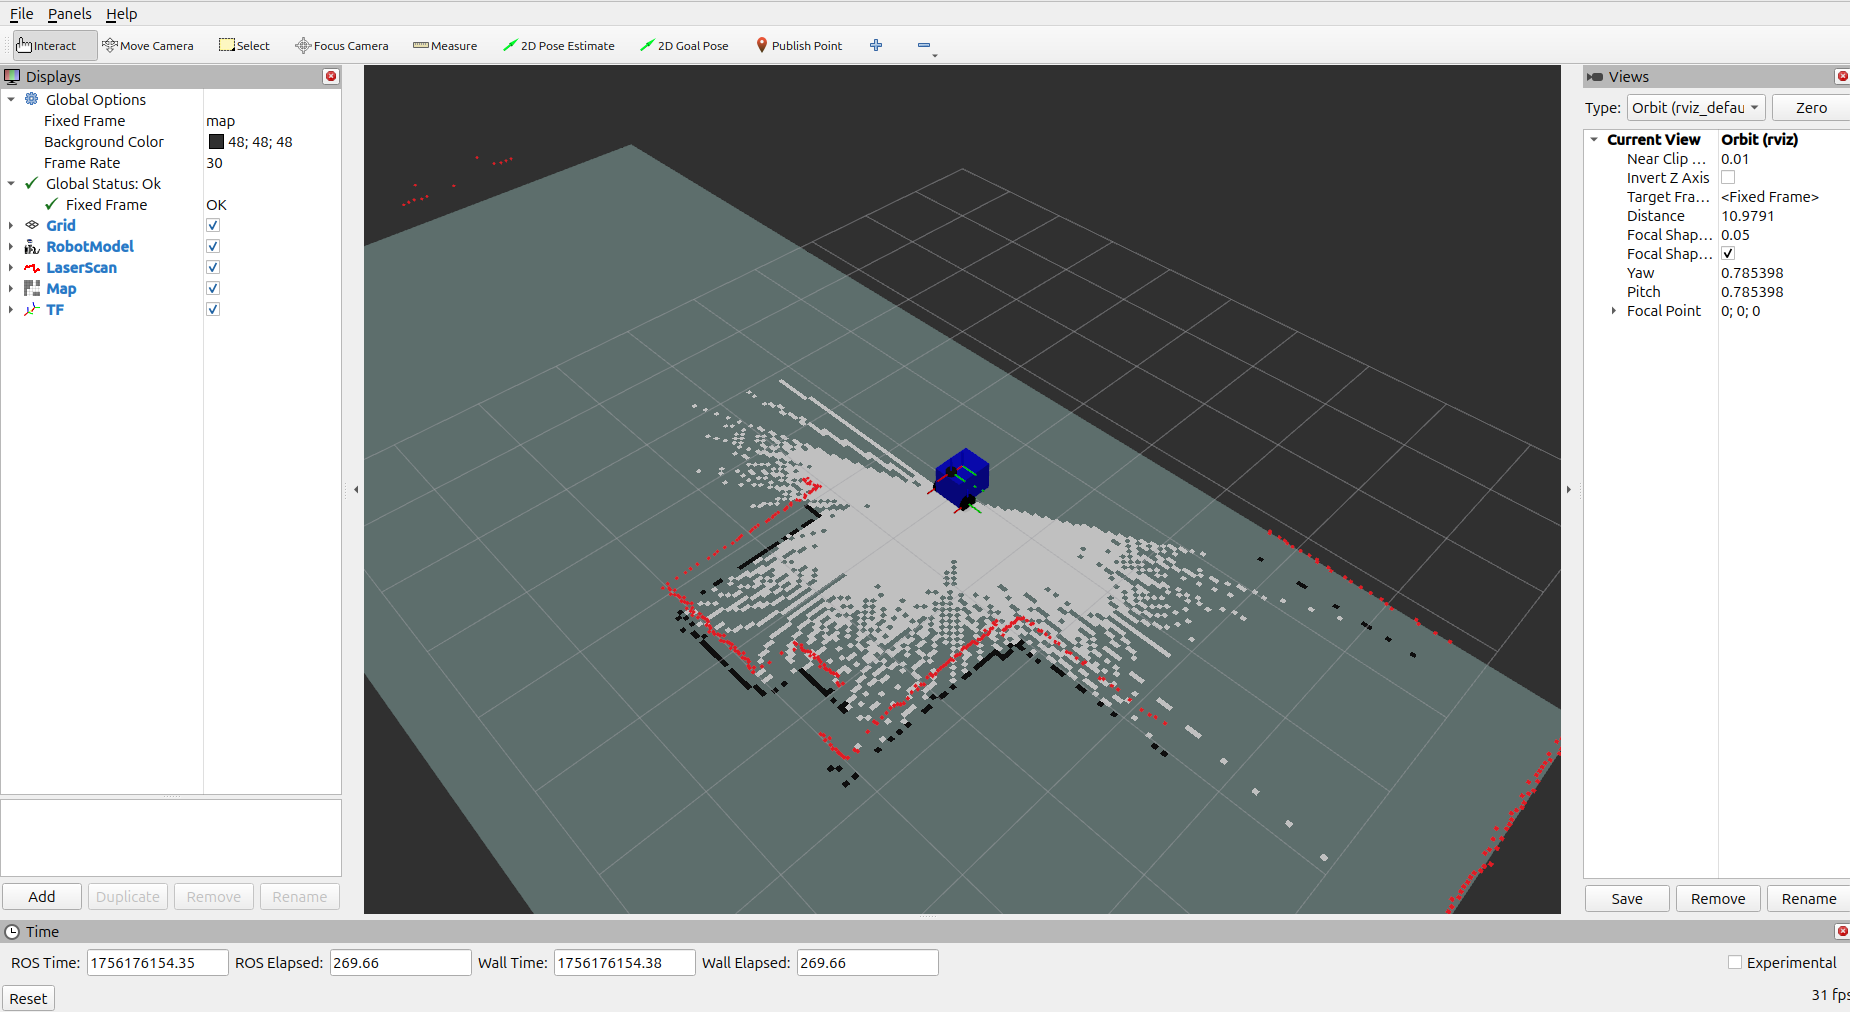
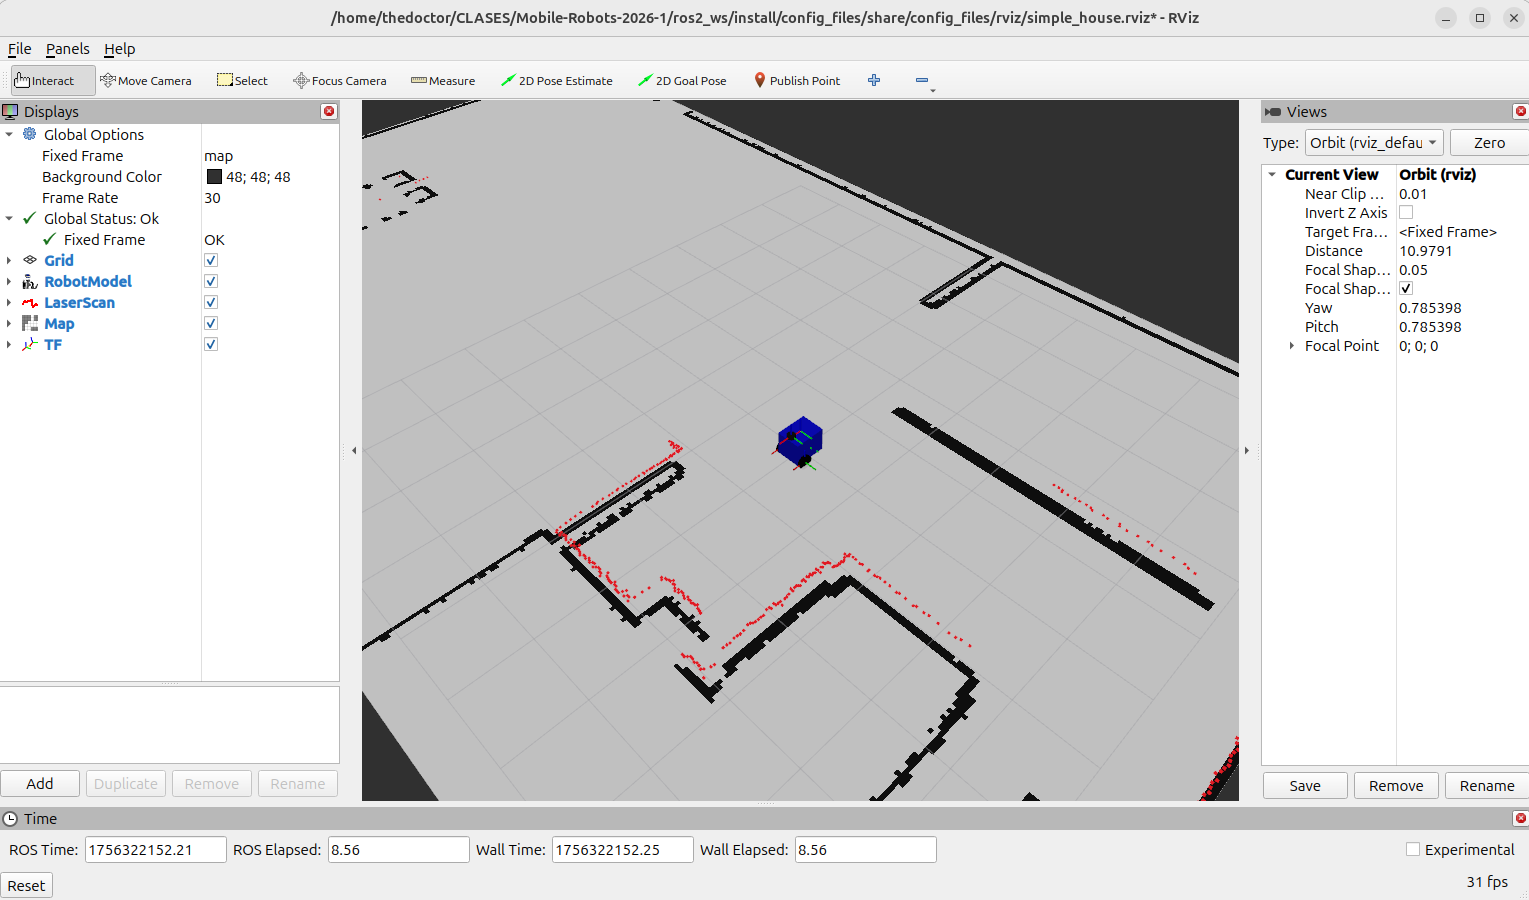
Update files for assignments 01 and 02

diff --git a/ros2_ws/src/hardware/gazebo_envs/launch/house_simul.launch.py b/ros2_ws/src/hardware/gazebo_envs/launch/house_simul.launch.py
@@ -1,6 +1,6 @@
 from launch import LaunchDescription
 from launch_ros.actions import Node
-from launch.actions import SetEnvironmentVariable, IncludeLaunchDescription
+from launch.actions import SetEnvironmentVariable, IncludeLaunchDescription, TimerAction
 from launch.launch_description_sources import PythonLaunchDescriptionSource
 from launch.substitutions import PathJoinSubstitution
 from launch_ros.substitutions import FindPackageShare
@@ -23,6 +23,7 @@ def generate_launch_description():
     robot_state_publisher_params = [{'robot_description': robot_description_content}]
     gz_bridge_params_path = os.path.join(gazebo_envs_pkg_path, 'config', 'gz_bridge.yaml')
     rviz_config_file = os.path.join(config_files_pkg_path, 'rviz', 'simple_house.rviz')
+    map_config_file = os.path.join(config_files_pkg_path, 'navigation', 'simple_house.yaml')
 
     xarm_descrip_pkg_path = get_package_share_directory('xarm_description')
     xarm_controller_pkg_path = get_package_share_directory('xarm_controller')
@@ -77,7 +78,33 @@ def generate_launch_description():
             package='rviz2',
             executable='rviz2',
             name='rviz2',
-            output='screen',
             arguments=['-d', rviz_config_file],
+        ),
+        
+        Node(
+            package='nav2_map_server',
+            executable='map_server',
+            name='map_server',
+            output='screen',
+            parameters=[{'yaml_filename':map_config_file}]
+        ),
+        Node(
+            package='nav2_amcl',
+            executable='amcl',
+            name='amcl',
+            output='screen',
+            parameters=[{'base_frame_id':'base_link'}, {'set_initial_pose':True}]
+        ),
+        TimerAction(
+            period=5.0,
+            actions=[
+                Node(
+                    package='nav2_util',
+                    executable='lifecycle_bringup',
+                    name='lifecycle_bringup',
+                    output='screen',
+                    arguments=['map_server', 'amcl']
+                )
+            ]
         )
     ])
